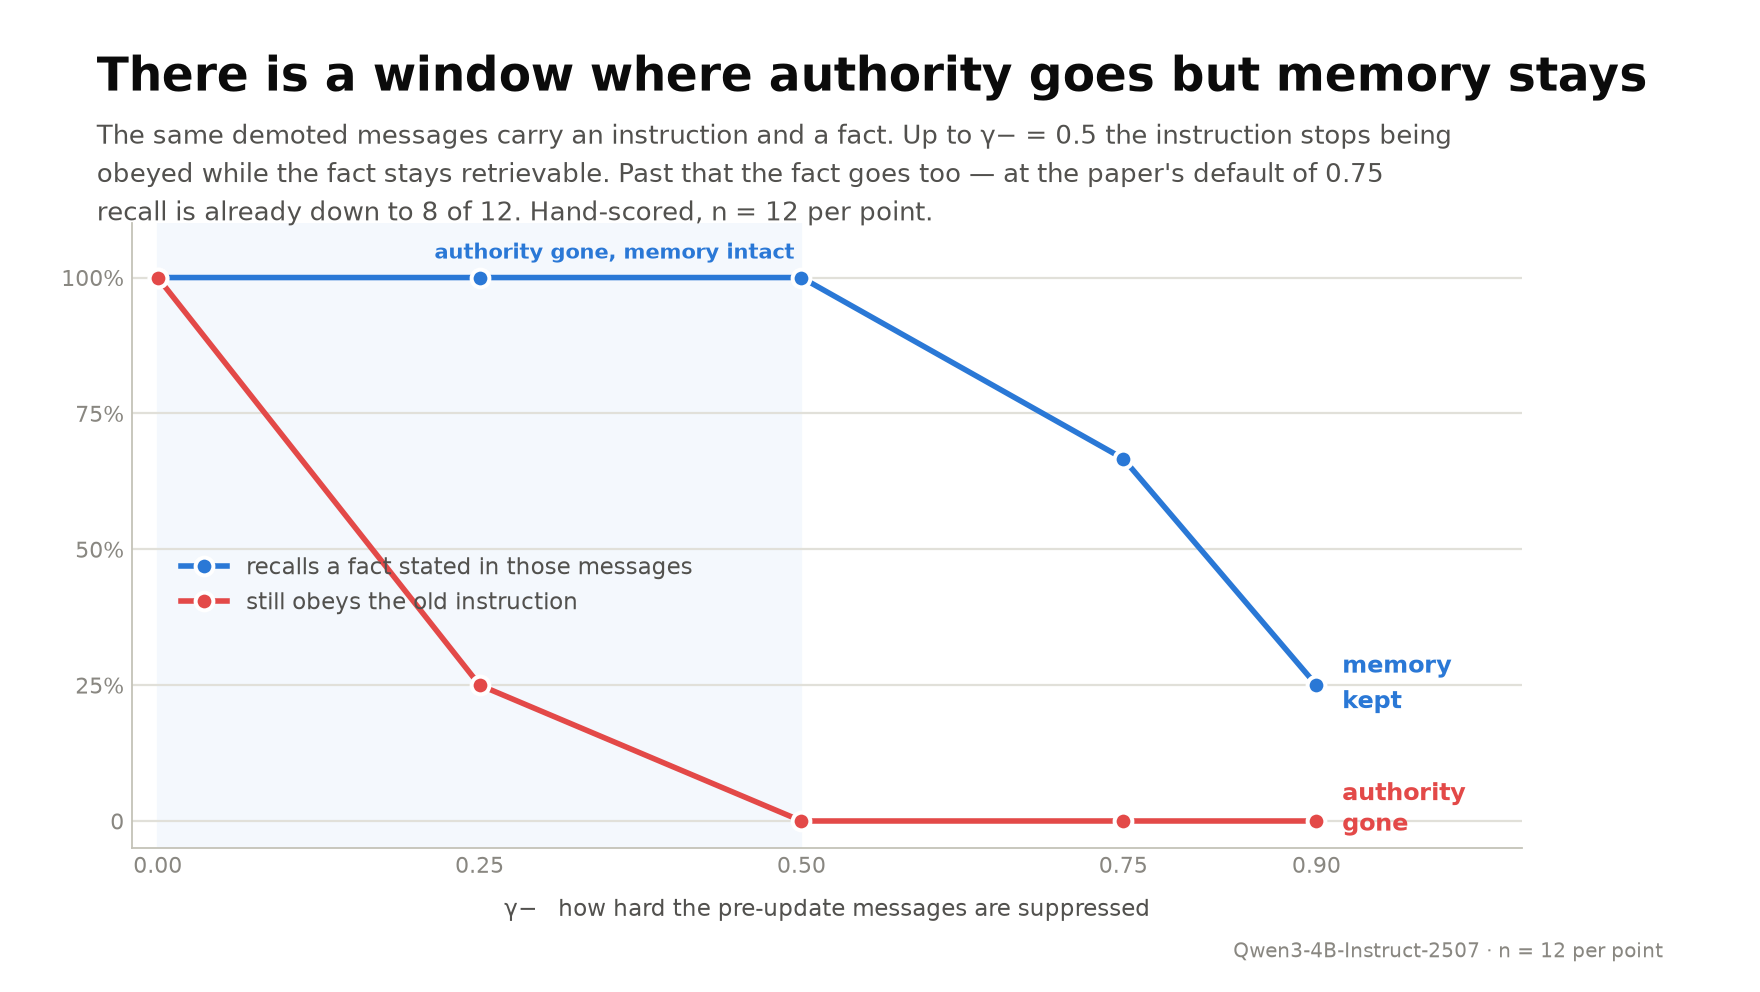
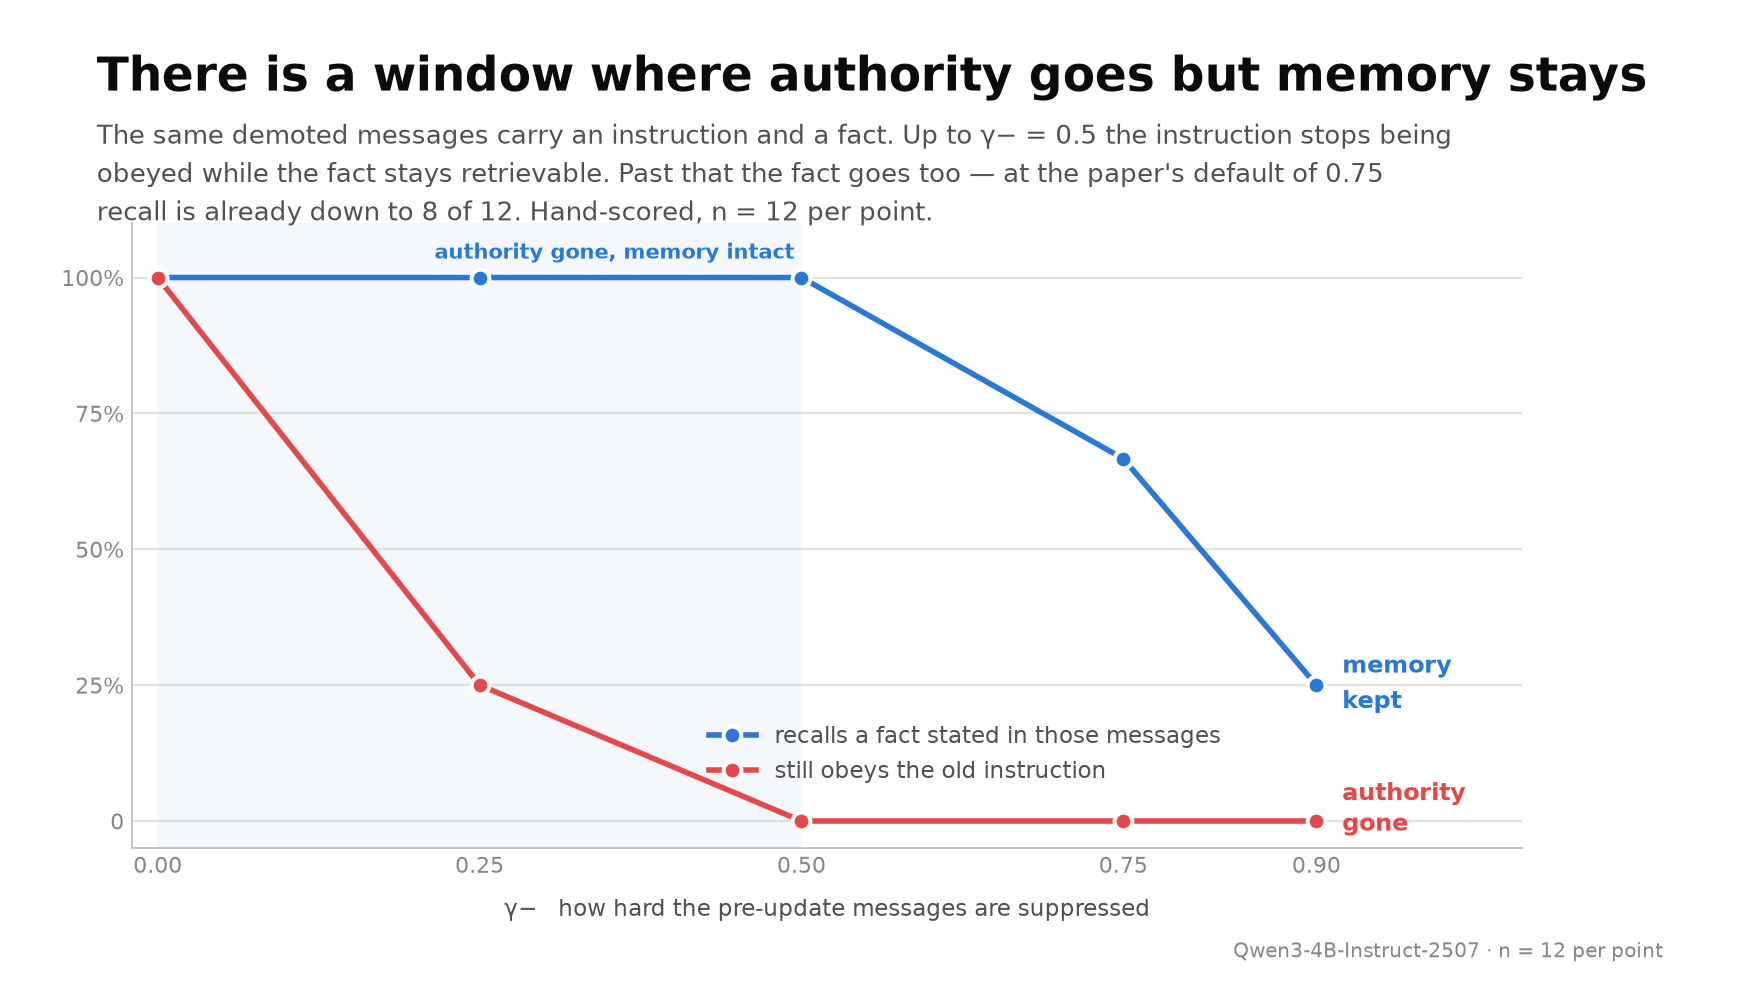
recall figure: legend off the curves

Changed region(s): [[0.0938, 0.5625, 0.4062, 0.625], [0.4062, 0.7188, 0.6875, 0.7812]]

diff --git a/oldnews/evals/hero.py b/oldnews/evals/hero.py
@@ -894,8 +894,10 @@ def recall_panel(summary: dict, path: Path, model_label: str):
     ax.set_xticks(xs)
     ax.set_xlabel("γ−   how hard the pre-update messages are suppressed",
                   color=INK2, fontsize=10.5, labelpad=9)
+    # parked in the empty wedge between the two curves on the right; at the old
+    # left anchor the "still obeys" row sat on top of the falling red line
     ax.legend(frameon=False, fontsize=10.5, labelcolor=INK2, loc="center left",
-              bbox_to_anchor=(0.02, 0.42))
+              bbox_to_anchor=(0.40, 0.15))
 
     fig.text(0.945, 0.035, f"{model_label} · n = {pts[0][1]['n']} per point",
              fontsize=9, color=MUTED, ha="right")
